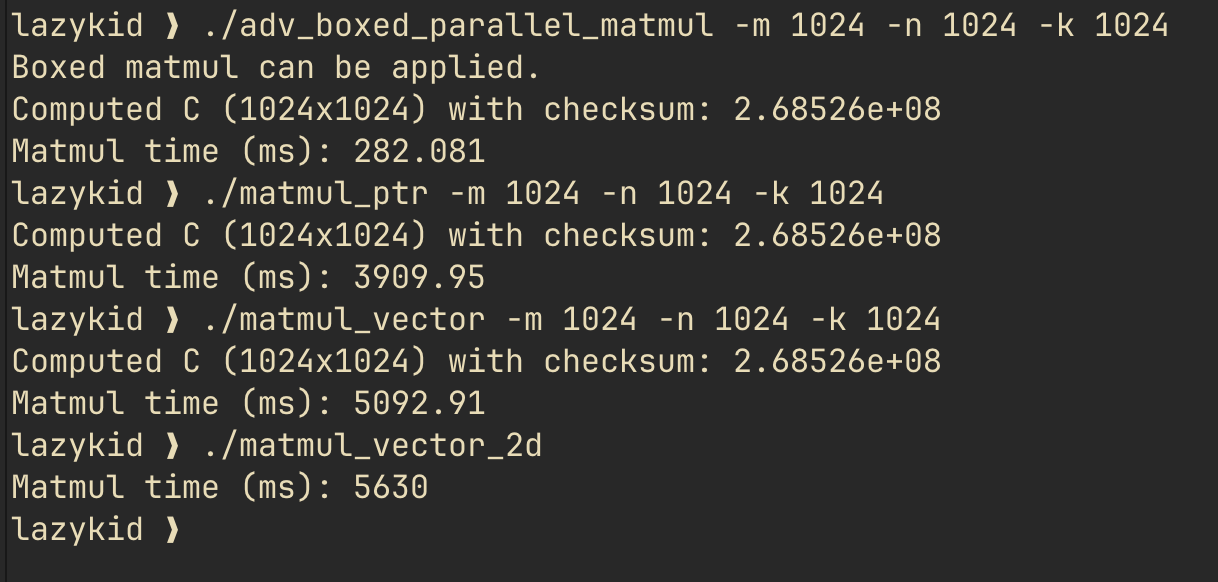
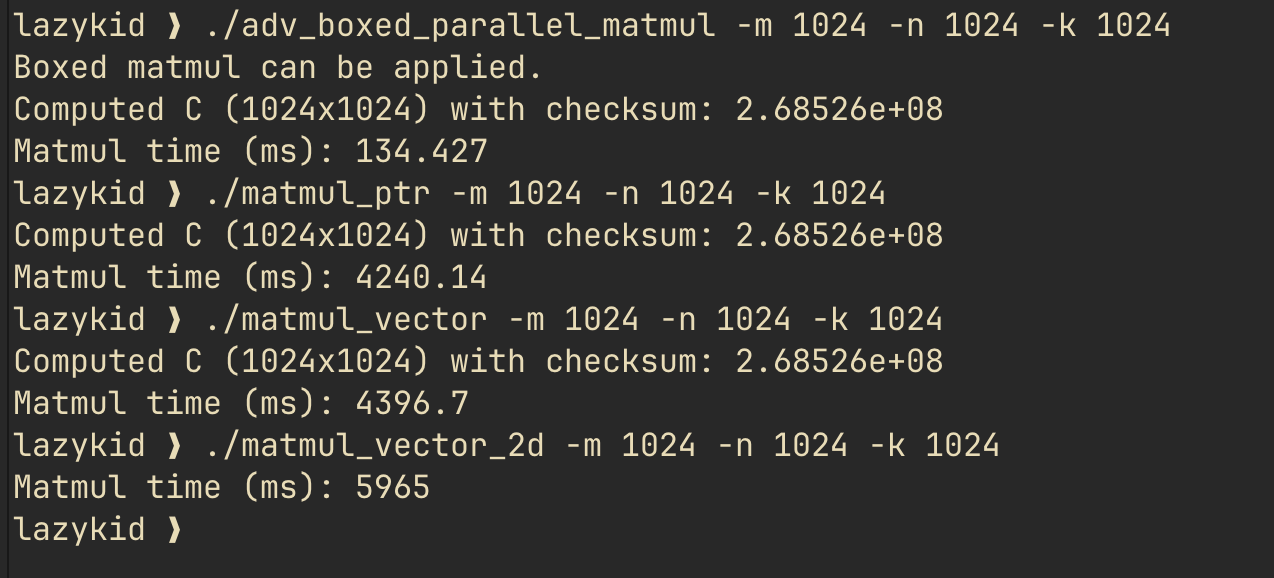
found out optimal number of blocks NB through some experimentation

diff --git a/adv_boxed_parallel_matmul.cpp b/adv_boxed_parallel_matmul.cpp
@@ -124,7 +124,7 @@ int main(int argc, char** argv) {
     }
 
     int N = m; // number of elements in each dimensino (in all dimensions we have same number of elements)
-    int NB = 32; // number of blocks 
+    int NB = 128; // number of blocks, here we have found after experimenting that 128 is obptimal number of blocks for this specific dimensions of matrix.
     int NEIB = N/NB; // number of elements in each block 
 
     const auto start = std::chrono::steady_clock::now();

diff --git a/README.md b/README.md
@@ -2,11 +2,13 @@
 
 In this project we implement matrix multiplication in cpp and then optimize it get best results on cpu.
 
-> The best implementation right now is adv_boxed_parallel_matmul.cpp which uses both boxed matrix multiplication and parallelization using openmp. **the least time it takes to mutliply matrix A and matrix B both with `1024x1024` dimensions and type `double` is ~280 ms.**
+- The best implementation right now is adv_boxed_parallel_matmul.cpp which uses both boxed matrix multiplication and parallelization using openmp. 
+- **the least time it takes to mutliply matrix A and matrix B both with `1024x1024` dimensions and type `double` is ~140 ms.**
+- for blocked parallele matrix multiplication we found that using number of blocks NB = 128 gives us the most optimal soluction which is ~140ms for our specific dimensions of matrix.
 
 ## Results
 
-![alt text](image.png)
+![result.png](image.png)
 
 ## Build
 
